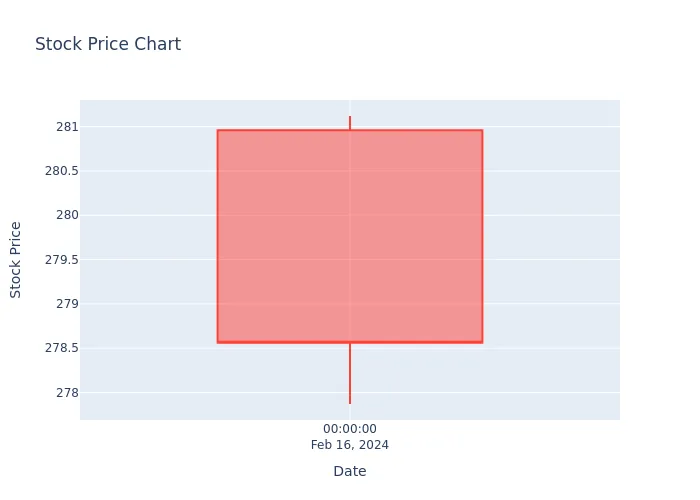
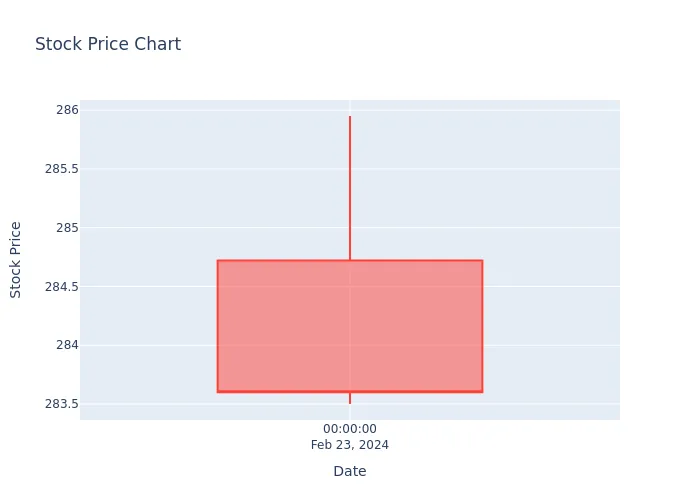
new dips

diff --git a/content/dipfinder.md b/content/dipfinder.md
@@ -23,7 +23,7 @@ Imagine you own a share of a company, which is like owning a tiny piece of that 
 In my case I wanted to find the longest consecutive "dip" of a stockprice regardless of temporary up's.
 
 ## Dip's
-The latest and greatest dips, updated at: **2024-02-18** (next: 2024-02-18)
+The latest and greatest dips, updated at: **2024-02-25** (next: 2024-02-25)
 
 | Symbol | Name | Loss | Days |
 | :----: | ---- | ---- | ---- |
@@ -34,7 +34,7 @@ The latest and greatest dips, updated at: **2024-02-18** (next: 2024-02-18)
 | [PFE](https://finance.yahoo.com/quote/PFE) | PFE | -28.662% | 242 |
 | [WBD](https://finance.yahoo.com/quote/WBD) | WBD | -28.043% | 284 |
 | [NEE](https://finance.yahoo.com/quote/NEE) | NEE | -22.834% | 229 |
-| [PYPL](https://finance.yahoo.com/quote/PYPL) | PYPL | -21.999% | 201 |
+| [PYPL](https://finance.yahoo.com/quote/PYPL) | PYPL | -21.973% | 208 |
 | [MRK.DE](https://finance.yahoo.com/quote/MRK.DE) | MRK.DE | -21.916% | 288 |
 | [TCEHY](https://finance.yahoo.com/quote/TCEHY) | TCEHY | -21.497% | 254 |
 | [SCHW](https://finance.yahoo.com/quote/SCHW) | SCHW | -19.414% | 287 |
@@ -46,10 +46,10 @@ The latest and greatest dips, updated at: **2024-02-18** (next: 2024-02-18)
 | [CSCO](https://finance.yahoo.com/quote/CSCO) | CSCO | -15.751% | 99 |
 | [SBUX](https://finance.yahoo.com/quote/SBUX) | SBUX | -14.329% | 222 |
 | [TSCO](https://finance.yahoo.com/quote/TSCO) | TSCO | -13.887% | 229 |
-| [ADBE](https://finance.yahoo.com/quote/ADBE) | ADBE | -13.879% | 14 |
 | [MS](https://finance.yahoo.com/quote/MS) | MS | -13.82% | 277 |
 | [PEP](https://finance.yahoo.com/quote/PEP) | PEP | -13.679% | 211 |
 | [VOW3.DE](https://finance.yahoo.com/quote/VOW3.DE) | VOW3.DE | -13.226% | 280 |
+| [ADBE](https://finance.yahoo.com/quote/ADBE) | ADBE | -12.811% | 21 |
 | [RHO6.F](https://finance.yahoo.com/quote/RHO6.F) | RHO6.F | -12.749% | 186 |
 | [NESM.F](https://finance.yahoo.com/quote/NESM.F) | NESM.F | -12.605% | 214 |
 | [AWK](https://finance.yahoo.com/quote/AWK) | AWK | -12.475% | 228 |
@@ -64,12 +64,11 @@ The latest and greatest dips, updated at: **2024-02-18** (next: 2024-02-18)
 | [CAT](https://finance.yahoo.com/quote/CAT) | CAT | -9.634% | 130 |
 | [DIS](https://finance.yahoo.com/quote/DIS) | DIS | -9.563% | 215 |
 | [LMT](https://finance.yahoo.com/quote/LMT) | LMT | -8.8% | 235 |
-| [NET](https://finance.yahoo.com/quote/NET) | NET | -8.71% | 7 |
+| [NET](https://finance.yahoo.com/quote/NET) | NET | -8.775% | 14 |
 | [BAS.DE](https://finance.yahoo.com/quote/BAS.DE) | BAS.DE | -8.494% | 134 |
 | [DWNI.F](https://finance.yahoo.com/quote/DWNI.F) | DWNI.F | -8.487% | 75 |
 | [NKE](https://finance.yahoo.com/quote/NKE) | NKE | -8.478% | 222 |
 | [TD](https://finance.yahoo.com/quote/TD) | TD | -8.478% | 131 |
-| [GOOG](https://finance.yahoo.com/quote/GOOG) | GOOG | -8.447% | 18 |
 | [NVS](https://finance.yahoo.com/quote/NVS) | NVS | -8.399% | 142 |
 | [NVO](https://finance.yahoo.com/quote/NVO) | NVO | -8.355% | 14 |
 | [HXL](https://finance.yahoo.com/quote/HXL) | HXL | -8.209% | 150 |
@@ -78,6 +77,7 @@ The latest and greatest dips, updated at: **2024-02-18** (next: 2024-02-18)
 | [PG](https://finance.yahoo.com/quote/PG) | PG | -7.018% | 123 |
 | [KO](https://finance.yahoo.com/quote/KO) | KO | -6.689% | 222 |
 | [XYL](https://finance.yahoo.com/quote/XYL) | XYL | -6.363% | 137 |
+| [GOOG](https://finance.yahoo.com/quote/GOOG) | GOOG | -6.168% | 25 |
 | [BRYN.F](https://finance.yahoo.com/quote/BRYN.F) | BRYN.F | -5.93% | 81 |
 | [NVDA](https://finance.yahoo.com/quote/NVDA) | NVDA | -5.751% | 18 |
 | [DTG.DE](https://finance.yahoo.com/quote/DTG.DE) | DTG.DE | -5.729% | 121 |
@@ -95,7 +95,6 @@ The latest and greatest dips, updated at: **2024-02-18** (next: 2024-02-18)
 | [C](https://finance.yahoo.com/quote/C) | C | -3.25% | 280 |
 | [LLY](https://finance.yahoo.com/quote/LLY) | LLY | -3.226% | 30 |
 | [MCD](https://finance.yahoo.com/quote/MCD) | MCD | -3.225% | 162 |
-| [AVGO](https://finance.yahoo.com/quote/AVGO) | AVGO | -2.958% | 7 |
 | [SHOP](https://finance.yahoo.com/quote/SHOP) | SHOP | -2.944% | 3 |
 | [MSFT](https://finance.yahoo.com/quote/MSFT) | MSFT | -2.213% | 10 |
 | [VNA.F](https://finance.yahoo.com/quote/VNA.F) | VNA.F | -2.138% | 2 |
@@ -113,7 +112,7 @@ The latest and greatest dips, updated at: **2024-02-18** (next: 2024-02-18)
 | [GS](https://finance.yahoo.com/quote/GS) | GS | -0.98% | 284 |
 | [BLK](https://finance.yahoo.com/quote/BLK) | BLK | -0.89% | 4 |
 | [CTAS](https://finance.yahoo.com/quote/CTAS) | CTAS | -0.881% | 7 |
-| [V](https://finance.yahoo.com/quote/V) | V | -0.861% | 1 |
+| [AVGO](https://finance.yahoo.com/quote/AVGO) | AVGO | -0.654% | 1 |
 | [INTU](https://finance.yahoo.com/quote/INTU) | INTU | -0.577% | 9 |
 | [MUV2.DE](https://finance.yahoo.com/quote/MUV2.DE) | MUV2.DE | -0.559% | 3 |
 | [AFL](https://finance.yahoo.com/quote/AFL) | AFL | -0.506% | 11 |
@@ -122,6 +121,7 @@ The latest and greatest dips, updated at: **2024-02-18** (next: 2024-02-18)
 | [AMD](https://finance.yahoo.com/quote/AMD) | AMD | -0.209% | 180 |
 | [AAPL](https://finance.yahoo.com/quote/AAPL) | AAPL | -0.111% | 131 |
 | [DTE.DE](https://finance.yahoo.com/quote/DTE.DE) | DTE.DE | -0.088% | 2 |
+| [V](https://finance.yahoo.com/quote/V) | V | -0.053% | 1 |
 | [COST](https://finance.yahoo.com/quote/COST) | COST | -0.028% | 1 |
 | [EL4X.DE](https://finance.yahoo.com/quote/EL4X.DE) | EL4X.DE | 0.0% | 0 |
 | [QCOM](https://finance.yahoo.com/quote/QCOM) | QCOM | 0.0% | 0 |
@@ -205,10 +205,10 @@ ___
 #### PYPL Info
 - Yahoo Finance Link: [PYPL](https://finance.yahoo.com/quote/PYPL)
 - Name: PYPL
-- Days: 201
-- Total "dip": -21.999% 
+- Days: 208
+- Total "dip": -21.973% 
 #### PYPL Chart
-![Chart of the last 201 days of PYPL's stockprice](/charts/PYPL.webp)
+![Chart of the last 208 days of PYPL's stockprice](/charts/PYPL.webp)
 ___
 
 #### MRK.DE Info
@@ -310,15 +310,6 @@ ___
 ![Chart of the last 229 days of TSCO's stockprice](/charts/TSCO.webp)
 ___
 
-#### ADBE Info
-- Yahoo Finance Link: [ADBE](https://finance.yahoo.com/quote/ADBE)
-- Name: ADBE
-- Days: 14
-- Total "dip": -13.879% 
-#### ADBE Chart
-![Chart of the last 14 days of ADBE's stockprice](/charts/ADBE.webp)
-___
-
 #### MS Info
 - Yahoo Finance Link: [MS](https://finance.yahoo.com/quote/MS)
 - Name: MS
@@ -344,6 +335,15 @@ ___
 - Total "dip": -13.226% 
 #### VOW3.DE Chart
 ![Chart of the last 280 days of VOW3.DE's stockprice](/charts/VOW3.DE.webp)
+___
+
+#### ADBE Info
+- Yahoo Finance Link: [ADBE](https://finance.yahoo.com/quote/ADBE)
+- Name: ADBE
+- Days: 21
+- Total "dip": -12.811% 
+#### ADBE Chart
+![Chart of the last 21 days of ADBE's stockprice](/charts/ADBE.webp)
 ___
 
 #### RHO6.F Info
@@ -475,10 +475,10 @@ ___
 #### NET Info
 - Yahoo Finance Link: [NET](https://finance.yahoo.com/quote/NET)
 - Name: NET
-- Days: 7
-- Total "dip": -8.71% 
+- Days: 14
+- Total "dip": -8.775% 
 #### NET Chart
-![Chart of the last 7 days of NET's stockprice](/charts/NET.webp)
+![Chart of the last 14 days of NET's stockprice](/charts/NET.webp)
 ___
 
 #### BAS.DE Info
@@ -515,15 +515,6 @@ ___
 - Total "dip": -8.478% 
 #### TD Chart
 ![Chart of the last 131 days of TD's stockprice](/charts/TD.webp)
-___
-
-#### GOOG Info
-- Yahoo Finance Link: [GOOG](https://finance.yahoo.com/quote/GOOG)
-- Name: GOOG
-- Days: 18
-- Total "dip": -8.447% 
-#### GOOG Chart
-![Chart of the last 18 days of GOOG's stockprice](/charts/GOOG.webp)
 ___
 
 #### NVS Info
@@ -596,6 +587,15 @@ ___
 - Total "dip": -6.363% 
 #### XYL Chart
 ![Chart of the last 137 days of XYL's stockprice](/charts/XYL.webp)
+___
+
+#### GOOG Info
+- Yahoo Finance Link: [GOOG](https://finance.yahoo.com/quote/GOOG)
+- Name: GOOG
+- Days: 25
+- Total "dip": -6.168% 
+#### GOOG Chart
+![Chart of the last 25 days of GOOG's stockprice](/charts/GOOG.webp)
 ___
 
 #### BRYN.F Info
@@ -751,15 +751,6 @@ ___
 ![Chart of the last 162 days of MCD's stockprice](/charts/MCD.webp)
 ___
 
-#### AVGO Info
-- Yahoo Finance Link: [AVGO](https://finance.yahoo.com/quote/AVGO)
-- Name: AVGO
-- Days: 7
-- Total "dip": -2.958% 
-#### AVGO Chart
-![Chart of the last 7 days of AVGO's stockprice](/charts/AVGO.webp)
-___
-
 #### SHOP Info
 - Yahoo Finance Link: [SHOP](https://finance.yahoo.com/quote/SHOP)
 - Name: SHOP
@@ -913,13 +904,13 @@ ___
 ![Chart of the last 7 days of CTAS's stockprice](/charts/CTAS.webp)
 ___
 
-#### V Info
-- Yahoo Finance Link: [V](https://finance.yahoo.com/quote/V)
-- Name: V
+#### AVGO Info
+- Yahoo Finance Link: [AVGO](https://finance.yahoo.com/quote/AVGO)
+- Name: AVGO
 - Days: 1
-- Total "dip": -0.861% 
-#### V Chart
-![Chart of the last 1 days of V's stockprice](/charts/V.webp)
+- Total "dip": -0.654% 
+#### AVGO Chart
+![Chart of the last 1 days of AVGO's stockprice](/charts/AVGO.webp)
 ___
 
 #### INTU Info
@@ -992,6 +983,15 @@ ___
 - Total "dip": -0.088% 
 #### DTE.DE Chart
 ![Chart of the last 2 days of DTE.DE's stockprice](/charts/DTE.DE.webp)
+___
+
+#### V Info
+- Yahoo Finance Link: [V](https://finance.yahoo.com/quote/V)
+- Name: V
+- Days: 1
+- Total "dip": -0.053% 
+#### V Chart
+![Chart of the last 1 days of V's stockprice](/charts/V.webp)
 ___
 
 #### COST Info
